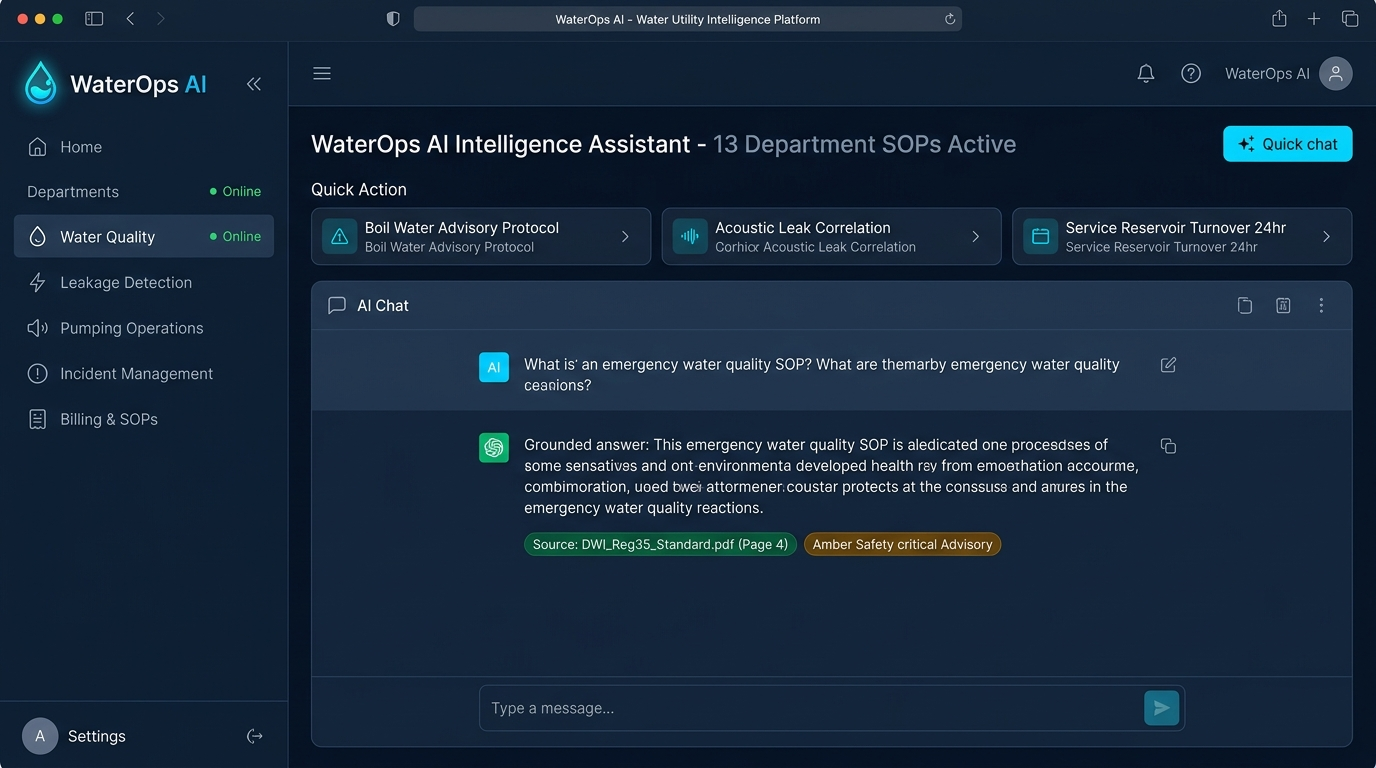
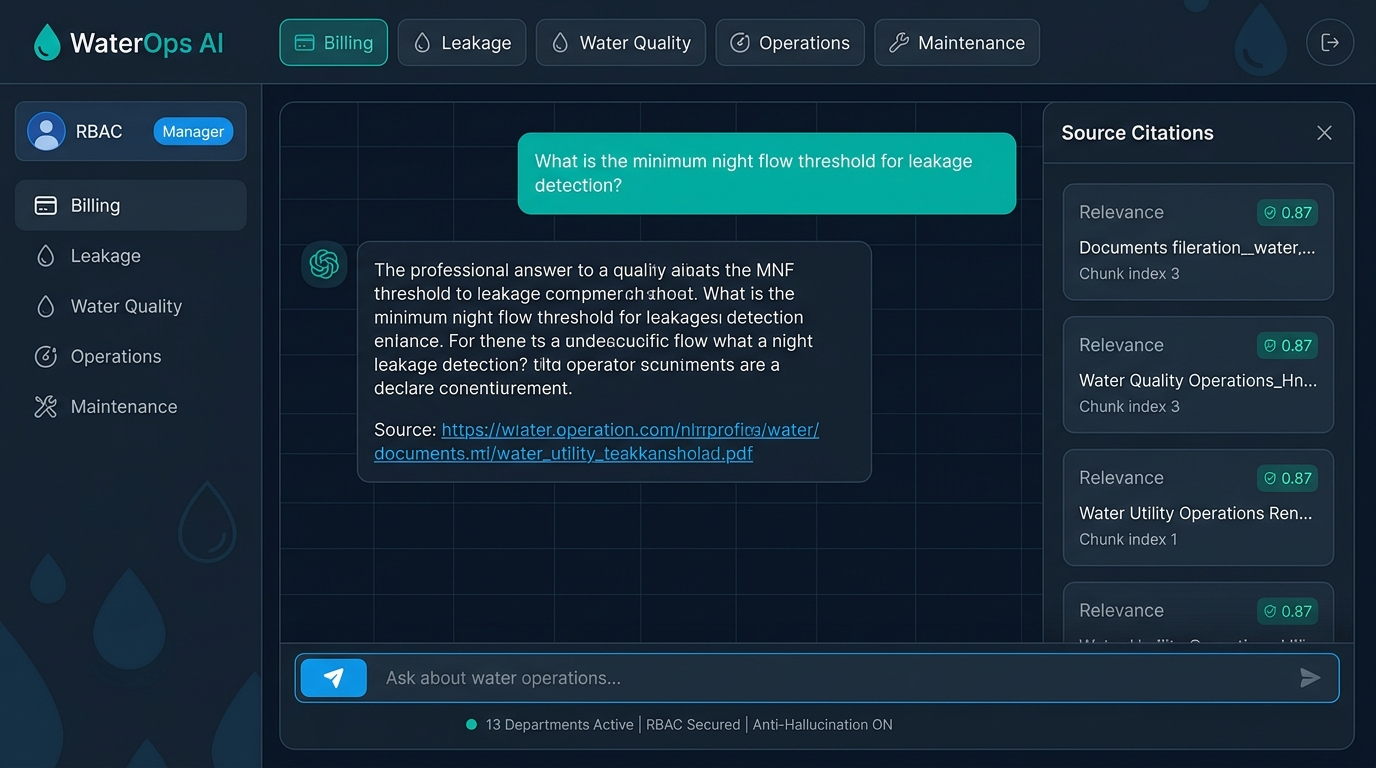
feat: add WaterOps AI FDE RAG as 7th featured project with AI-generated UI preview

diff --git a/index.html b/index.html
@@ -1178,7 +1178,7 @@
           <div class="col-12 col-md-6 col-lg-4 project-item-col" data-category="ai-agent full-stack vision-data">
             <div class="project-card shadow-sm h-100">
               <div class="project-img-wrapper" style="aspect-ratio: 16 / 9; max-height: 220px;">
-                <img src="projects/waterops.png" alt="WaterOps AI Enterprise Water Utility Platform Preview" class="project-img w-100 h-100" style="object-fit: cover; object-position: top center;"
+                <img src="projects/waterops.png" alt="WaterOps AI Enterprise Water Utility Operations Dashboard Preview" class="project-img w-100 h-100" style="object-fit: cover; object-position: top center;"
                   loading="lazy">
                 <div class="project-overlay">
                   <button class="btn btn-ai-primary btn-sm btn-project-details" data-project="waterops">
@@ -1188,40 +1188,40 @@
               </div>
               <div class="project-content p-3 p-lg-4 d-flex flex-column">
                 <div class="d-flex align-items-center justify-content-between flex-wrap gap-2 mb-2">
-                  <div class="project-category-tag"><i class="bi bi-droplet-half text-info"></i> Critical Utilities FDE</div>
-                  <span class="badge bg-info-subtle text-info border border-info-subtle px-2 py-1 font-mono small">
-                    <i class="bi bi-diagram-3-fill"></i> 13-Department RAG
+                  <div class="project-category-tag"><i class="bi bi-droplet-fill text-info"></i> Water Utility FDE</div>
+                  <span class="badge bg-success-subtle text-success border border-success-subtle px-2 py-1 font-mono small">
+                    <i class="bi bi-diagram-3"></i> 13-Dept RBAC RAG
                   </span>
                 </div>
                 <h3 class="project-title fs-5 mb-2">WaterOps AI FDE RAG</h3>
-                
+
                 <!-- AI FDE Value Narrative -->
                 <div class="mb-3 small text-secondary flex-grow-1">
                   <p class="mb-2">
-                    <strong class="text-white-subtle">FDE Engagement:</strong> Forward deployed into municipal water utilities to unify SOP knowledge across 13 siloed operational units (Leakage, Water Quality, Incident Management, Billing) under strict DWI and OFWAT regulatory compliance.
+                    <strong class="text-white-subtle">FDE Engagement:</strong> Forward deployed into UK water utility operations to give multi-department staff (Billing, Leakage, Water Quality, Incident Management, Regulatory) instant, RBAC-gated answers from approved SOPs—with mandatory safety-critical query interception.
                   </p>
                   <p class="mb-0">
-                    <strong class="text-white-subtle">Technical Architecture:</strong> RBAC department routing, ChromaDB metadata pre-filtering, safety-critical query detector (contamination & boil-water alerts), Groq LPU inference (`gpt-oss-120b`), and audit logging.
+                    <strong class="text-white-subtle">Technical Architecture:</strong> JWT RBAC (Admin/Manager/Agent), 13-department ChromaDB metadata filtering, prompt injection & jailbreak guardrails, Groq LPU inference (`gpt-oss-120b`), cosine similarity gating (>= 0.35), and MySQL/SQLite full audit logging.
                   </p>
                 </div>
 
                 <div class="project-tags mb-3">
-                  <span class="project-tag"><i class="bi bi-shield-exclamation text-warning"></i> Safety Critical</span>
-                  <span class="project-tag"><i class="bi bi-person-badge text-cyan"></i> RBAC Routing</span>
-                  <span class="project-tag">13 Depts</span>
+                  <span class="project-tag"><i class="bi bi-shield-lock-fill text-warning"></i> JWT RBAC</span>
+                  <span class="project-tag"><i class="bi bi-diagram-3 text-info"></i> 13 Depts</span>
                   <span class="project-tag">FastAPI</span>
                   <span class="project-tag">ChromaDB</span>
                   <span class="project-tag">Groq 120B</span>
-                  <span class="project-tag">MySQL</span>
-                  <span class="project-tag">Docker</span>
+                  <span class="project-tag">MySQL / SQLite</span>
+                  <span class="project-tag">Safety Guardrails</span>
+                  <span class="project-tag">Audit Logs</span>
                 </div>
                 <div class="project-footer pt-3 border-top mt-auto" style="border-color: var(--border-color)!important;">
                   <a href="https://github.com/bittush8789/waterops-ai-fde-rag" target="_blank" rel="noopener noreferrer"
-                    class="project-link fw-semibold small" aria-label="WaterOps GitHub Repo">
+                    class="project-link fw-semibold small" aria-label="WaterOps AI GitHub Repo">
                     <i class="bi bi-github"></i> Repository
                   </a>
                   <a href="https://github.com/bittush8789/waterops-ai-fde-rag#readme" target="_blank" rel="noopener noreferrer"
-                    class="project-link text-cyan fw-semibold small" aria-label="WaterOps System Documentation">
+                    class="project-link text-cyan fw-semibold small" aria-label="WaterOps AI System Documentation">
                     FDE System Design <i class="bi bi-arrow-up-right"></i>
                   </a>
                 </div>
@@ -1231,6 +1231,7 @@
         </div>
       </div>
     </section>
+
 
     <!-- =========================================================================
          6. Experience & Timeline Section

diff --git a/js/main.js b/js/main.js
@@ -230,21 +230,22 @@ const projectData = {
     demo: 'https://github.com/bittush8789/enterprise-travelassist-ai-fde-rag#readme'
   },
   'waterops': {
-    title: 'WaterOps AI: Multi-Department Water Utility Knowledge Assistant',
-    category: 'Critical Infrastructure & Water Utilities | AI Forward Deployed Engineering',
+    title: 'WaterOps AI: Multi-Department Water Utility Operations RAG Platform',
+    category: 'Water Utility & Public Infrastructure | AI Forward Deployed Engineering',
     image: 'projects/waterops.png',
-    description: 'Forward deployed into municipal and industrial water utilities (UK water operations model: DWI, OFWAT, and EA compliance) to unify standard operating procedures across 13 siloed departments—including Leakage, Water Quality, Incident Management, Operations, and Billing—with zero-hallucination verification and safety-critical hazard alerts.',
-    architecture: 'Multi-department RAG architecture featuring granular Role-Based Access Control (Admin, Manager, Agent) and pre-retrieval ChromaDB metadata filtering (ensuring agents only retrieve from authorized, approved SOPs). Powered by Groq LPU inference (openai/gpt-oss-120b), prompt injection guardrails, safety-critical query detector (attaching immediate emergency protocols for contamination/bursts), and MySQL/SQLite relational audit logging with feedback persistence.',
+    description: 'Forward deployed into UK water utility operations to provide multi-department staff with instant, RBAC-gated answers from approved Standard Operating Procedures (SOPs). Enforces safety-critical query interception, zero-hallucination grounding, and comprehensive audit logging across 13 dedicated operational departments.',
+    architecture: 'JWT-authenticated RBAC (Admin/Manager/Agent roles) with department-level authorization verification. ChromaDB vector store with strict pre-retrieval metadata filtering (department IN authorized_departments AND status = "approved"). Prompt injection & jailbreak detection guardrails with automatic safety-critical query warnings (contamination, bursts, boil-water notices). Cosine similarity gating (>= 0.35) with safe fallback. Groq LPU inference engine (openai/gpt-oss-120b) with 10 strict behavioral directives. MySQL/SQLite relational persistence for user accounts, sessions, document catalog, feedback, and security audit logs.',
     metrics: [
-      { label: 'Scope', val: '13 Departments' },
-      { label: 'Security', val: 'RBAC + Safety Alert' },
-      { label: 'LLM Engine', val: 'Groq 120B LPU' }
+      { label: 'Departments', val: '13-Dept RBAC' },
+      { label: 'LLM Engine', val: 'Groq 120B LPU' },
+      { label: 'Guardrails', val: 'Safety + Injection' }
     ],
-    tech: ['FastAPI', 'Python 3.11', 'Groq GPT-OSS-120B', 'ChromaDB', 'SentenceTransformers', 'JWT RBAC', 'MySQL / SQLite', 'Docker'],
+    tech: ['FastAPI', 'Python 3.11', 'Groq GPT-OSS-120B', 'ChromaDB', 'JWT RBAC', 'MySQL / SQLite', 'HuggingFace Embeddings', 'Vanilla JS Frontend'],
     github: 'https://github.com/bittush8789/waterops-ai-fde-rag',
     demo: 'https://github.com/bittush8789/waterops-ai-fde-rag#readme'
   }
 };
+
 
 function initProjectModals() {
   const modalElement = document.getElementById('projectDetailModal');

diff --git a/README.md b/README.md
@@ -122,15 +122,15 @@ A modern, high-performance, and fully responsive personal portfolio for **Bittu 
   - MySQL 8.0 relational persistence with SQLAlchemy for session tracking, message audit logging, and thumbs-up/down user feedback collection.
 - **Business Impact**: < 1.5s response SLA, ~65% deflection of routine customer inquiries, 100% cited answers with source filenames and page numbers, and Docker Compose orchestration.
 
-#### 7. WaterOps AI FDE RAG — Multi-Department Water Utility Knowledge Assistant
+#### 7. WaterOps AI FDE RAG — Multi-Department Water Utility Operations Knowledge Platform
 - **Repository**: [`bittush8789/waterops-ai-fde-rag`](https://github.com/bittush8789/waterops-ai-fde-rag)
-- **AI FDE Scope**: Forward deployed into municipal and industrial water utilities (UK water operations model: DWI, OFWAT, EA compliance) to unify standard operating procedures across 13 siloed departments (Leakage, Water Quality, Incident Management, Operations, Billing, etc.) under strict safety-critical query safeguards.
+- **AI FDE Scope**: Forward deployed into UK water utility enterprises to provide multi-department operations staff (Billing, Leakage, Water Quality, Incident Management, Regulatory, Maintenance, and 7 more) with instant, RBAC-gated answers from approved Standard Operating Procedures—with mandatory safety-critical query interception for contamination, bursts, and boil-water notices.
 - **Enterprise Architecture**:
-  - 13-Department Role-Based Access Control (Admin, Manager, Agent) with pre-retrieval ChromaDB metadata isolation (`status == "approved"`).
-  - Safety-critical query detector attaching urgent emergency protocols for contamination, severe bursts, flooding, and boil-water notices.
-  - Fast Groq LPU inference (`openai/gpt-oss-120b`) with strict anti-hallucination gatekeeper (0.35 cosine threshold + deterministic fallback).
-  - MySQL / SQLite relational persistence with comprehensive audit logging for user inquiries, document metadata, and feedback.
-- **Business Impact**: Instant SOP access across 13 departments, zero unauthorized cross-department retrieval leakage, immediate hazard mitigation alerts, and full Docker containerization.
+  - JWT-authenticated RBAC (Admin/Manager/Agent roles) with granular department-level authorization; ChromaDB with pre-retrieval metadata filtering (`department IN authorized_departments` AND `status = "approved"`).
+  - Prompt injection & jailbreak detection guardrails with automatic safety-critical query warning attachment.
+  - Cosine similarity gating (>= 0.35) with deterministic safe fallback. Groq LPU inference (`openai/gpt-oss-120b`) with 10 strict behavioral directives.
+  - MySQL/SQLite relational audit persistence: user accounts, sessions, document catalog, user feedback, and security attempt logs.
+- **Business Impact**: 13-department SOP knowledge base, zero-hallucination mandate on regulatory and safety queries, comprehensive security audit trail, and enterprise-grade separation of departmental knowledge domains.
 
 
 
@@ -184,7 +184,7 @@ New-portfolio/
 │   ├── fintech.png                  # FinAssist GPT enterprise FinTech knowledge assistant
 │   ├── legal.png                    # LegalAssist AI legal document intelligence preview
 │   ├── travel.png                   # TravelAssist AI customer support portal preview
-│   └── waterops.png                 # WaterOps AI water utility intelligence platform preview
+│   └── waterops.png                 # WaterOps AI water utility operations dashboard preview
 ├── css/
 │   └── style.css                    # Design system, CSS variables & responsive queries
 ├── js/
